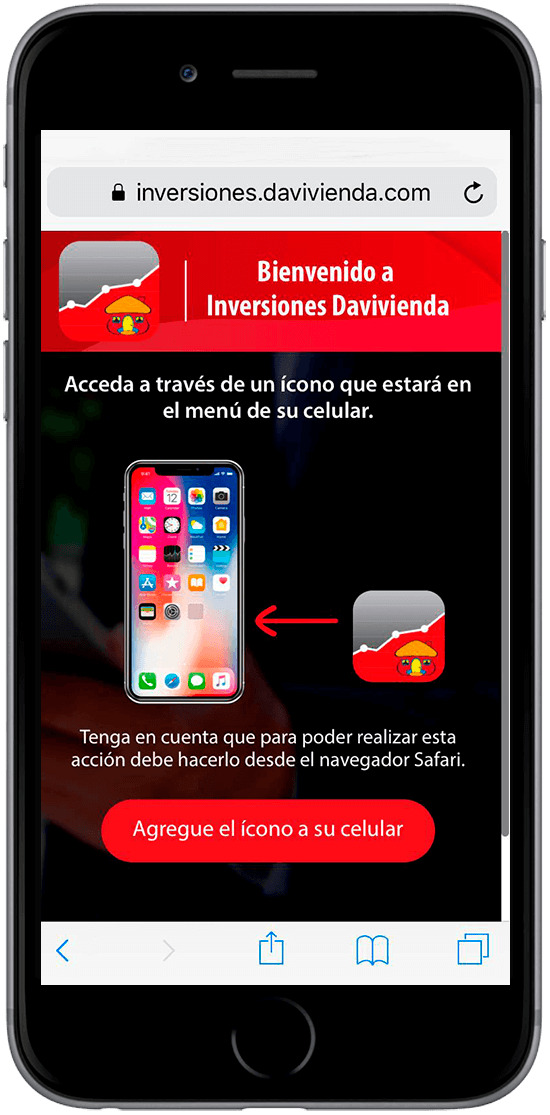
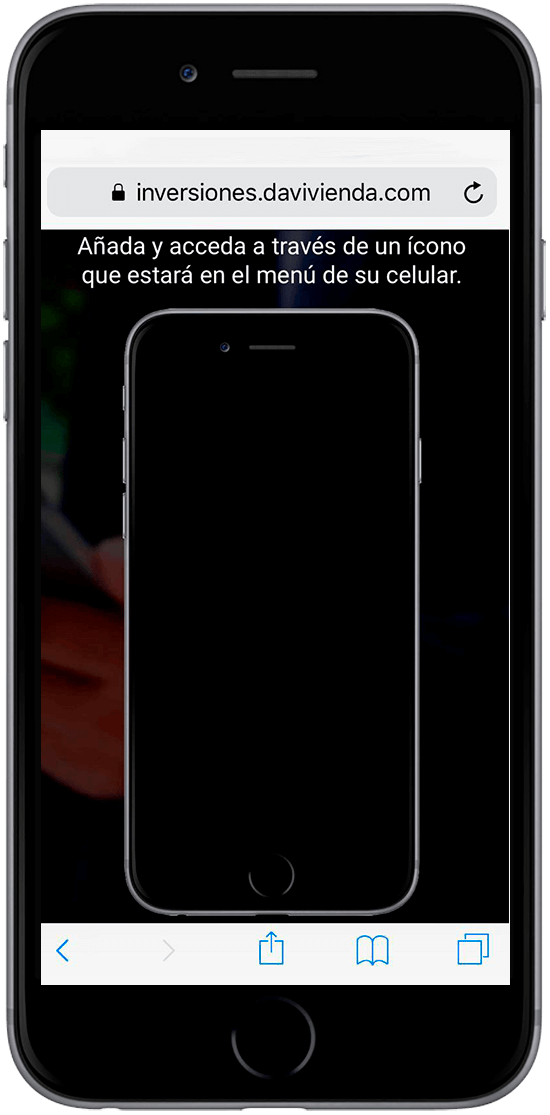
Android - IOS
Update

Changed region(s): [[0.0618, 0.183, 0.9273, 0.8538]]

diff --git a/index.html b/index.html
@@ -28,7 +28,7 @@
             </div>
             <div class="container-phone">
                 <h1>Añada y acceda a través de un ícono que estará en el menú de su celular.</h1>
-                <div class="swiper-container swiper-container-iframes">
+                <div class="swiper-container swiper-container-iframes render-iPhone">
                     <div class="swiper-wrapper">
                         <div class="swiper-slide"><img src="images/iphone-iframe.png" class="iframe" alt="App Inversiones Davivienda"></div>
                         <div class="swiper-slide"><img src="images/iphone-iframe-2.png" class="iframe" alt="App Inversiones Davivienda"></div>
@@ -39,6 +39,13 @@
                         <div class="swiper-slide"><img src="images/iphone-iframe-4alt.png" class="iframe" alt="App Inversiones Davivienda"></div>
                         <div class="swiper-slide"><img src="images/iphone-iframe-5.png" class="iframe" alt="App Inversiones Davivienda"></div>
                         <div class="swiper-slide"><img src="images/iphone-iframe.png" class="iframe" alt="App Inversiones Davivienda"></div>
+                    </div>
+                    <a href="javascript:void(0)" class="play-btn"><img src="images/play.svg" alt="Play"></a>
+                </div>
+
+                <div class="swiper-container swiper-container-iframes render-android">
+                    <div class="swiper-wrapper">
+                        <div class="swiper-slide"><img src="images/android-iframe.png" class="iframe" alt="App Inversiones Davivienda"></div>
                     </div>
                     <a href="javascript:void(0)" class="play-btn"><img src="images/play.svg" alt="Play"></a>
                 </div>

diff --git a/css/styles.css b/css/styles.css
@@ -105,7 +105,7 @@ img {
     width: 100%;
     height: 90px;
     padding: 2% 5%;
-    background-image: url(../images/image-onboarding-header.png);
+    background-image: url(../images/image-onboarding-header.jpg);
     background-position: center top;
     background-size: cover;
     text-align: center; }
@@ -145,14 +145,14 @@ img {
     font-size: 25px;
     font-family: "Roboto", sans-serif;
     color: #fff;
-    margin: 0 0 4%; }
+    margin: 0 0 7%; }
   .on-boarding .alert-iPhone {
     display: inline-block;
     width: 90%;
     font-size: 14px;
     color: #fff;
     font-family: "Roboto", sans-serif;
-    margin-top: 2%; }
+    margin-top: 7%; }
   .on-boarding .play-btn {
     display: inline-block;
     position: absolute;
@@ -171,7 +171,8 @@ img {
     max-width: 300px; }
   .on-boarding .swiper-container-iframes {
     opacity: 0;
-    position: relative; }
+    position: relative;
+    display: none; }
 
 /* -------------- Media Queries - Responsive -------------- */
 /* PC */

diff --git a/css/styles.scss b/css/styles.scss
@@ -126,7 +126,7 @@ img{
         height: 90px;
         padding: 2% 5%;
     
-        background-image: url(../images/image-onboarding-header.png);
+        background-image: url(../images/image-onboarding-header.jpg);
         background-position: center top;
         background-size: cover;
         text-align: center;
@@ -172,7 +172,7 @@ img{
         font-size: $font-h;
         font-family: $roboto;
         color: #fff;
-        margin: 0 0 4%;
+        margin: 0 0 7%;
     }
     .alert-iPhone{
         display: inline-block;
@@ -180,7 +180,7 @@ img{
         font-size: $font-p;
         color: #fff;
         font-family: $roboto;
-        margin-top: 2%;
+        margin-top: 7%;
     }
     .play-btn{
         display: inline-block;
@@ -203,6 +203,7 @@ img{
     .swiper-container-iframes{
         opacity: 0;
         position: relative;
+        display: none;
     }
 }
 

diff --git a/js/main.js b/js/main.js
@@ -127,7 +127,7 @@ $(window).on("load", function() {
     $('.render-android img:nth-of-type(2)').addClass('animated fadeInRight delay-1s');
     $('.render-android img:nth-of-type(3)').addClass('animated fadeInDown delay-2s');
 
-    $('.swiper-container-iframes').addClass('animated fadeInUp');
+    $('.swiper-container-iframes').addClass('animated fadeInLeft');
     $('.alert-iPhone').addClass('animated fadeIn delay-1s');
 
     $('.render-iPhone img:nth-of-type(1)').addClass('animated fadeInLeft delay-0.99s');
